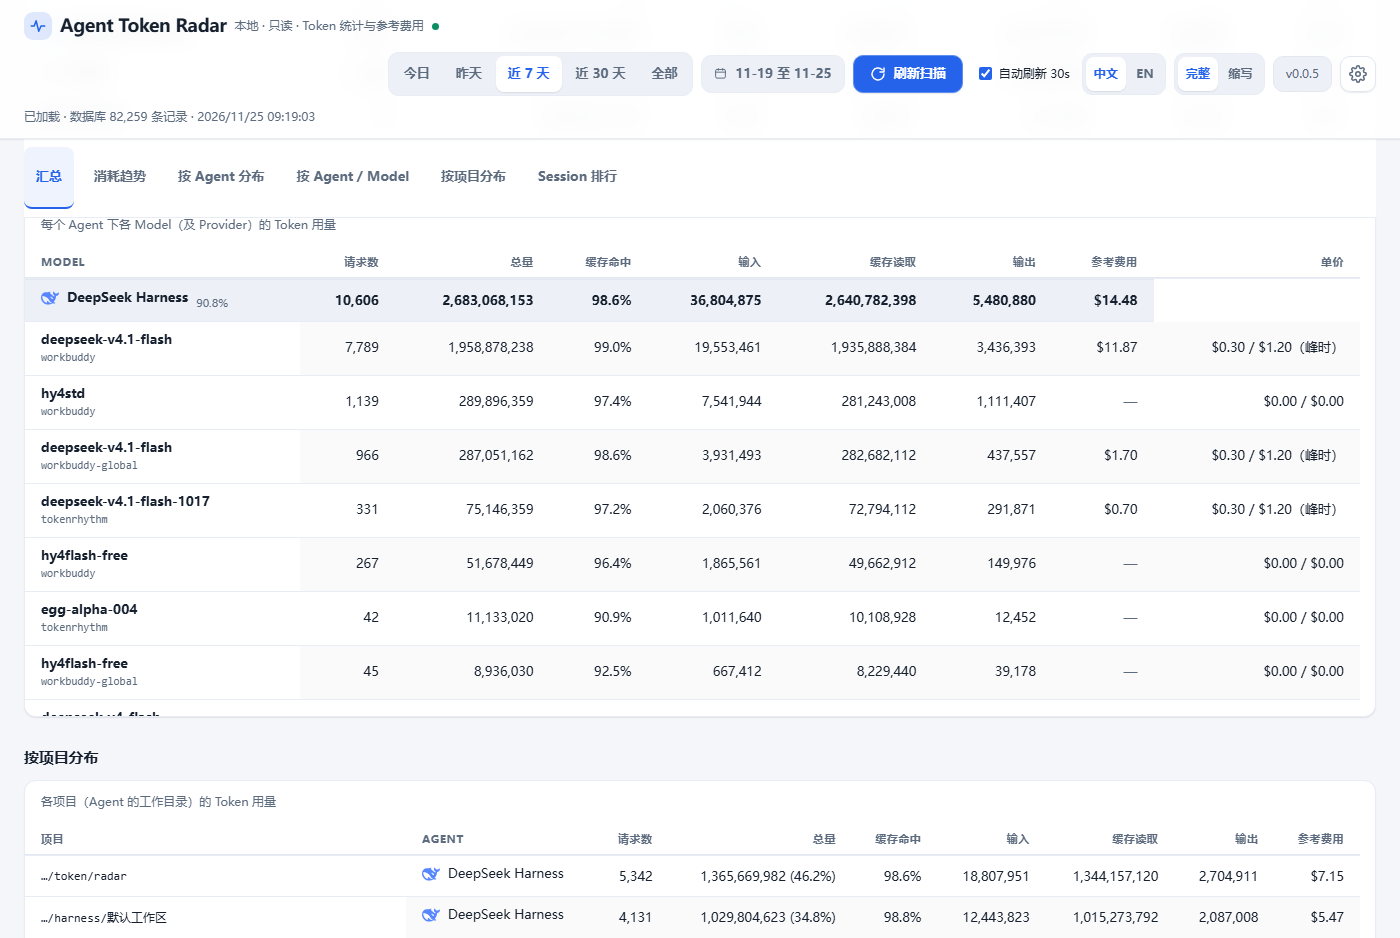
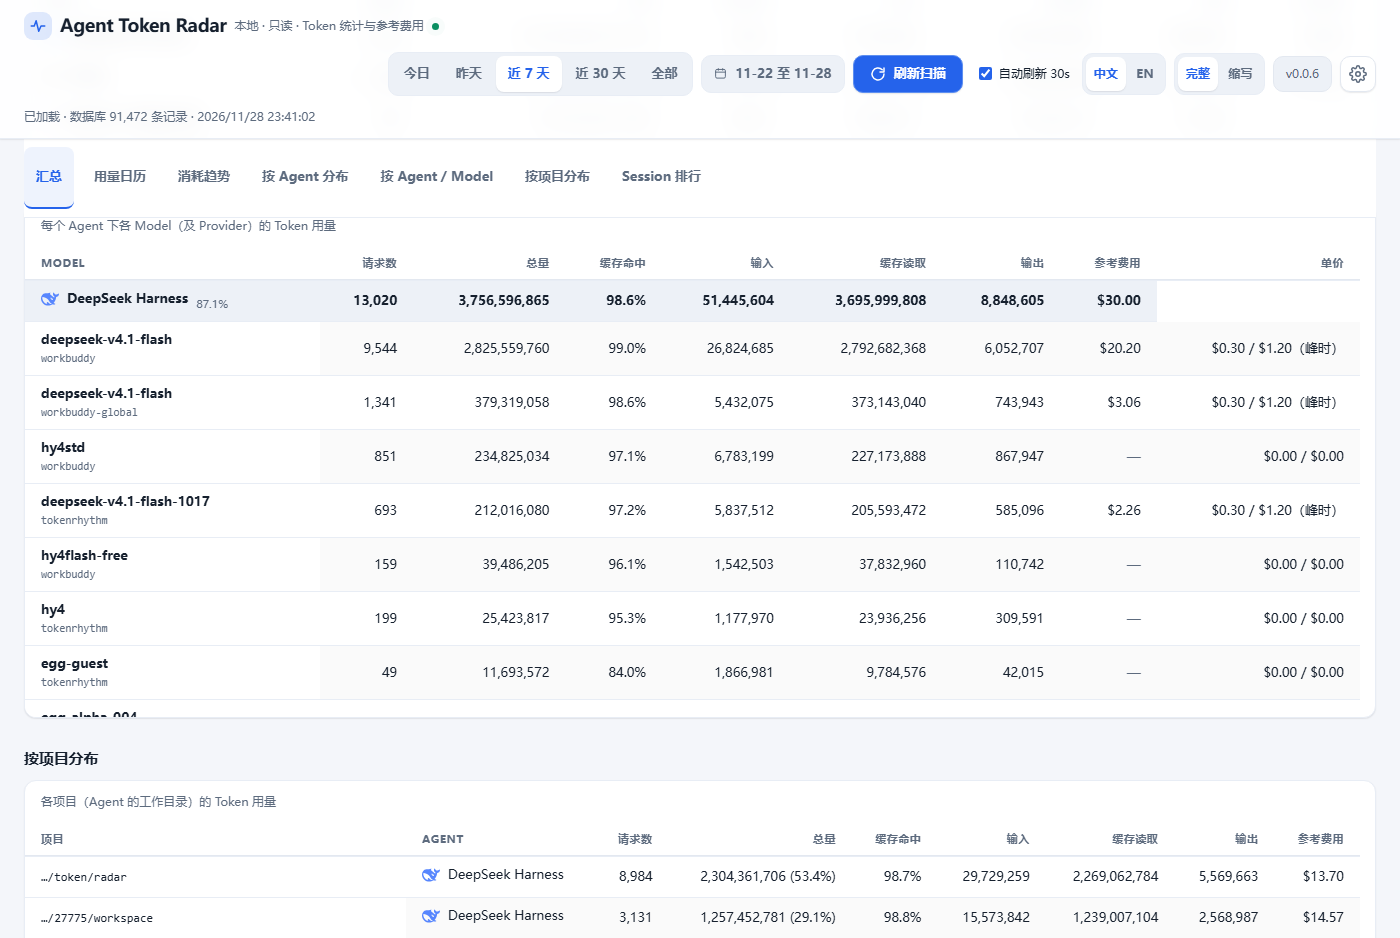
docs: re-shoot the README screenshots for the calendar, and list it as a feature
The six images still showed 0.0.5: no usage calendar section, no calendar entry
in the jump bar, and the toolbar's version button still read v0.0.5 -- so the
README was advertising a screen that no longer exists. Re-shot all six with
scripts/shot_readme.py against the installed 0.0.6 build and this machine's
real data, same 1400x938 as before.

The calendar only appeared in the changelog, never in the feature list, so the
body of both READMEs now says what it is (a year as one heatmap, five bands by
rank, hover for tokens and cost, click to focus a day).

tests/test_readme_links.py still passes: every local link resolves, both
languages reference the same screenshots, and no image is a stale placeholder.

diff --git a/README.en.md b/README.en.md
@@ -56,6 +56,7 @@ you see the real conversation names.
 |---|---|
 | **25 agent adapters** | Claude Code, Codex, DSH, Gemini / Antigravity, Hermes, WorkBuddy, Kimi, Copilot, Qoder, Qwen Code, Pi, Prime, CodeBuddy, Command Code, Devin, MiMoCode, MiniMax, OpenCode, ZCode, Muse and more |
 | **Six dimensions** | by Agent / Model / Provider / project (working directory) / Session / day |
+| **Usage calendar** | a whole year as one heatmap, a square per day; days are shaded in five bands by rank, hover for that day's tokens and cost, click a day to focus it |
 | **Cache-hit rate** | aggregated first, then divided; per-row ratios are never averaged (see [DESIGN.md](DESIGN.md)) |
 | **Reference cost** | from official list prices, including time-of-day billing (DeepSeek peak/off-peak is decided per request from that request's own timestamp) |
 | **Strict bilingual UI** | Chinese mode shows Chinese only, English mode English only |

diff --git a/README.md b/README.md
@@ -47,6 +47,7 @@
 |---|---|
 | **25 个 Agent 适配器** | Claude Code、Codex、DSH、Gemini / Antigravity、Hermes、WorkBuddy、Kimi、Copilot、Qoder、Qwen Code、Pi、Prime、CodeBuddy、Command Code、Devin、MiMoCode、MiniMax、OpenCode、ZCode、Muse 等 |
 | **多维度统计** | 按 Agent / Model / Provider / 项目（工作目录）/ Session / 天 |
+| **用量日历** | 一整年的热力图，一天一格；有记录的日子按排名分五档着色，悬停看当天 token 与费用，点一天就跳到那天 |
 | **缓存命中率** | 先聚合再相除，不平均每行比率（详见 [DESIGN.md](DESIGN.md)） |
 | **参考费用估算** | 按厂商官方标价，支持分时计价（DeepSeek 峰谷按每条请求自身时间判断） |
 | **中英双语** | 严格分离，中文模式只显示中文 |
